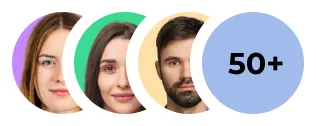
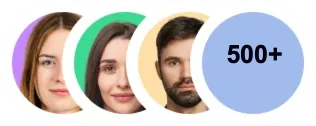
USP bento: 500+ on the alumni badge, map clear of the text
Design review: the avatars image now shows 500+ (was 50+, same size and
colour), alt text follows; the Global Accreditation map moves to the card's
lower right at 40% width and the text keeps to 62%, so the pins no longer
sit on the title or the text. Version 1.1.29.

Changed region(s): [[0.712, 0.3333, 0.9114, 0.5952]]

diff --git a/src/blocks/usp-bento/default.html b/src/blocks/usp-bento/default.html
@@ -45,7 +45,7 @@
 <!-- wp:group {"className":"b-card b-alumni dark","layout":{"type":"default"}} -->
 <div class="wp-block-group b-card b-alumni dark"><!-- wp:group {"className":"b-alumni-top","layout":{"type":"default"}} -->
 <div class="wp-block-group b-alumni-top"><!-- wp:image {"id":{{ID:bento-avatars.webp}},"sizeSlug":"full","linkDestination":"none","className":"b-avatars"} -->
-<figure class="wp-block-image size-full b-avatars"><img src="{{URL:bento-avatars.webp}}" alt="50+ alumni" class="wp-image-{{ID:bento-avatars.webp}}"/></figure>
+<figure class="wp-block-image size-full b-avatars"><img src="{{URL:bento-avatars.webp}}" alt="500+ alumni" class="wp-image-{{ID:bento-avatars.webp}}"/></figure>
 <!-- /wp:image -->
 <!-- wp:paragraph {"className":"big"} -->
 <p class="big">500+</p>

diff --git a/src/blocks/usp-bento/style.scss b/src/blocks/usp-bento/style.scss
@@ -83,7 +83,11 @@
 
 .imet-section .b-global :is(h3, h4) { white-space: nowrap; }
 
-.imet-section .b-map { position: absolute; right: 10px; top: 50%; width: 62%; margin: 0; opacity: .3; transform: translateY(-50%); pointer-events: none; }
+/* The map sits in the lower right, clear of the title and text (UI review: its pins sat on "Global Accreditation" and
+   on the text); the text keeps to the left of it. */
+.imet-section .b-map { position: absolute; right: var(--wp--preset--spacing--12); bottom: var(--wp--preset--spacing--8); width: 40%; margin: 0; opacity: .3; pointer-events: none; }
+
+.imet-section .b-global .b-text p { max-width: 62%; }
 
 .imet-section .b-map img { width: 100%; }
 

diff --git a/style.css b/style.css
@@ -4,7 +4,7 @@
  * Theme Name:        ImetBlocktheme
  * Theme URI:         https://github.com/Anupkankale/imet-theme
  * Description:       Block theme for IMET Worldwide: the design system, the IMET section blocks, patterns and templates for the Online Doctorate (DBA) and Master's (MBA) pages.
- * Version:           1.1.28
+ * Version:           1.1.29
  * Author:            Anup Kankale
  * Author URI:        https://anupkankale.com
  * Tags:              fse

diff --git a/patterns/dba-landing.php b/patterns/dba-landing.php
@@ -307,7 +307,7 @@ if ( ! defined( 'ABSPATH' ) ) {
 <!-- wp:group {"className":"b-card b-alumni dark","layout":{"type":"default"}} -->
 <div class="wp-block-group b-card b-alumni dark"><!-- wp:group {"className":"b-alumni-top","layout":{"type":"default"}} -->
 <div class="wp-block-group b-alumni-top"><!-- wp:image {"sizeSlug":"full","linkDestination":"none","className":"b-avatars"} -->
-<figure class="wp-block-image size-full b-avatars"><img src="<?php echo esc_url( get_theme_file_uri( "assets/images/imet/bento-avatars.webp" ) ); ?>" alt="50+ alumni"/></figure>
+<figure class="wp-block-image size-full b-avatars"><img src="<?php echo esc_url( get_theme_file_uri( "assets/images/imet/bento-avatars.webp" ) ); ?>" alt="500+ alumni"/></figure>
 <!-- /wp:image -->
 <!-- wp:paragraph {"className":"big"} -->
 <p class="big">500+</p>

diff --git a/CHANGELOG.md b/CHANGELOG.md
@@ -2,6 +2,12 @@
 
 All notable changes to this project are documented in this file. The format is based on [Keep a Changelog](https://keepachangelog.com/en/1.1.0/), and this project adheres to [Semantic Versioning](https://semver.org/spec/v2.0.0.html).
 
+## 1.1.29 - 2026-11-11
+
+### Fixed
+
+- USP bento grid (DBA pages), from the design review: the badge on the alumni avatars says **500+** (was 50+), matching the big number; the Global Accreditation map sits in the card's lower right with its pins clear of the title and text, which no longer runs under it.
+
 ## 1.1.28 - 2026-11-11
 
 ### Changed
